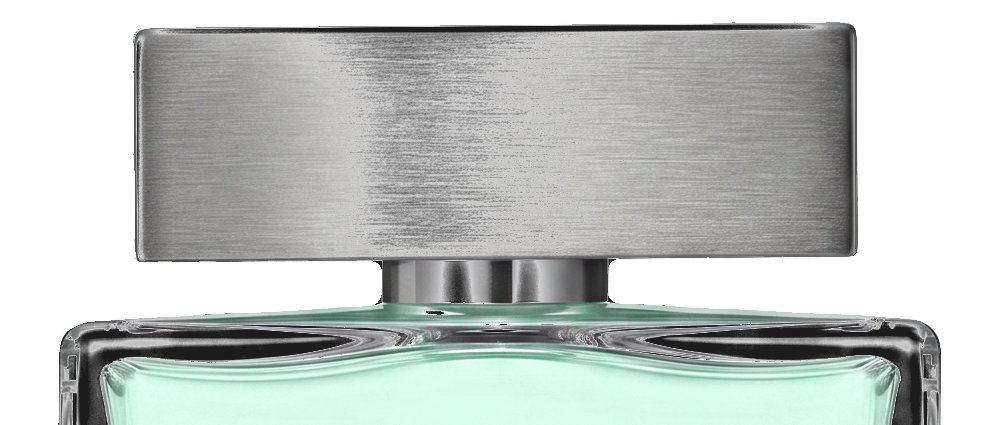
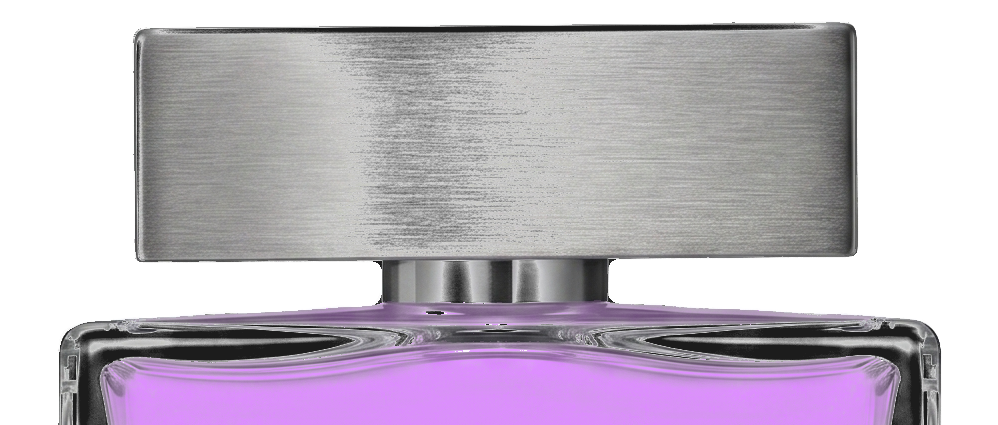
feat: halo keeps the retired house ultraviolet (01 §2.3 amended)
Halo carries #be29ff — the accent the whole system used until this release.
It is the one deliberate exception to the rule that a scent tint tracks its
bottle's liquid, and the name is the argument: a halo is the light AROUND an
object. It also suits the notes better than the green did, since iris, orris
and heliotrope are all violet materials.

The tint change alone was not shippable, and looking at it is what proved it.
Halo's liquid measures S 0.90 but L 0.92, and at that lightness no hue can
carry chroma — beside a vivid violet rim the body rendered as WHITE, reading
as a mismatched gel rather than as the bottle's own glow. Every other scent
sits within 16 degrees and ~2 chroma of its own liquid; halo was 178 chroma
points away.

Saturating it does nothing, because the saturation is already 0.90.
Deepening is the fix, so LIQUID_REHUE entries became { hue, deepen } and
halo is { hue: 282, deepen: 0.35 }: L 0.92 -> 0.77, chroma 36 -> 103. Picked
over 0.45 (chroma 123) by eye, because it keeps halo the lightest coloured
bottle of the five — what "the glow. iris in soft focus." asks for. Caps and
glass measure chroma 6 and 0 after the pass, untouched as designed.

Halo also GAINS a tinted text identity it did not have. Under the old palette
it was near-neutral pale violet, so 01 section 2.4 banned it from text; at
#be29ff it measures 4.47:1 and takes --scent-tint-text: #c33afe (4.84:1), the
same clamp volt used under the old house colour. That guardrail is rewritten:
[…]

Changed region(s): [[0.0932, 0.7035, 0.9008, 1.0]]

diff --git a/src/styles/tokens.css b/src/styles/tokens.css
@@ -42,10 +42,9 @@
      --scent-tint is a light source: liquid, rim glow, hover border,
      marker, ambient wash. It is not a text colour, and measuring it
      proves why — nocturne lands at 2.11:1, unreadable at any size, while
-     static and halo are so near-neutral that tinting a word does nothing
-     at all. Only volt and nocturne have a usable tinted text identity;
-     the rest resolve to white, per 01 §2.4's rule that near-neutral
-     tints are never text. */
+     static is so near-neutral that tinting a word does nothing at all.
+     Volt, nocturne and halo have a usable tinted text identity; static
+     and fever resolve to white, per 01 §2.4. */
   --scent-tint-text: var(--color--white);
 
   /* ---- Type scale (01 §3.2) ---- */
@@ -169,10 +168,10 @@
   --scent-tint-text: #7d75d3; /* 4.84:1 — the raw tint is 2.11:1 */
 }
 
-/* static, fever and halo inherit --scent-tint-text: white.
-   static and halo are near-neutral, so a tinted word is indistinguishable
-   from an untinted one (01 §2.4); fever's amber is reserved for scarcity
-   and error states (01 §1 rule 4) and must not leak into body copy. */
+/* static and fever inherit --scent-tint-text: white. static is
+   near-neutral, so a tinted word is indistinguishable from an untinted
+   one (01 §2.4); fever's amber is reserved for scarcity and error states
+   (01 §1 rule 4) and must not leak into body copy. */
 [data-scent="static"] {
   --scent-tint: #bad2c3;
 }
@@ -181,6 +180,13 @@
   --scent-tint: #ffb000;
 }
 
+/* halo keeps the retired house ultraviolet (01 §2.3, amended 2026-08-31).
+   It is the only tint that is not its bottle's liquid colour, and that is
+   the point: a halo is the light AROUND an object, so the pale violet
+   liquid sits inside a vivid UV glow rather than matching it. Same value
+   the house carried until the collection went green, and the same 4.47:1
+   — so display sizes only, exactly as volt was. */
 [data-scent="halo"] {
-  --scent-tint: #c5edd4;
+  --scent-tint: #be29ff;
+  --scent-tint-text: #c33afe; /* 4.84:1 — the raw tint is 4.47:1 */
 }

diff --git a/docs/design/01-design-system.md b/docs/design/01-design-system.md
@@ -100,7 +100,7 @@ Each scent detail page (and its card hover state) swaps ONE variable, nothing el
 [data-scent="nocturne"] { --scent-tint: #3a2fbf;          --scent-tint-text: #7d75d3; }
 [data-scent="static"]   { --scent-tint: #bad2c3; }
 [data-scent="fever"]    { --scent-tint: #ffb000; }
-[data-scent="halo"]     { --scent-tint: #c5edd4; }
+[data-scent="halo"]     { --scent-tint: #be29ff;          --scent-tint-text: #c33afe; }
 ```
 
 Components reference `--scent-tint` (falls back to `--color--phosphor`). This mirrors the reference build's per-item theme classes (research: `hero-nav-theme.is-1/is-2` pattern, §3/S2).
@@ -109,24 +109,45 @@ Components reference `--scent-tint` (falls back to `--color--phosphor`). This mi
 >
 > **`--scent-tint` is a light source, not a text colour.** Measured against
 > `--color--black`: volt 4.47:1, nocturne **2.11:1**, static 11.84:1,
-> fever 10.36:1, halo 14.86:1. Nocturne is unreadable at any size; static
-> and halo are so near-neutral that tinting a word changes nothing; fever's
-> amber collides with its reserved scarcity role (§1 rule 4). Four of five
-> fail as text — so the token stops being asked to do that job.
+> fever 10.36:1, halo 4.47:1. Nocturne is unreadable at any size; static
+> is so near-neutral that tinting a word changes nothing; fever's
+> amber collides with its reserved scarcity role (§1 rule 4). Most fail as
+> text — so the token stops being asked to do that job.
 >
 > **Permitted surfaces:** bottle liquid and rim glow · hover border ·
 > underline or marker beside a name · the section's ambient wash. That is
 > still ONE attribute swap and still satisfies `03 §3.1`.
 >
 > **`--scent-tint-text`** covers the rare genuinely-tinted word, clamped to
-> ≥4.5:1. Only volt and nocturne have a usable tinted text identity; static,
-> fever and halo resolve to `--color--white`, per §2.4.
+> ≥4.5:1. Volt, nocturne and halo have a usable tinted text identity; static
+> and fever resolve to `--color--white`, per §2.4.
+
+> **Amended 2026-08-31** (house colour, owner-approved). **Halo keeps the
+> retired house ultraviolet `#be29ff`** — the accent the whole system carried
+> until this release. It is the one deliberate exception to the rule that a
+> scent tint tracks its bottle's liquid, and the name is the argument: a halo
+> is the light *around* an object, and halo's notes are iris, orris and
+> heliotrope, all violet materials. The retired accent surviving as one
+> scent's signature is also the more honest record of where the house came
+> from than deleting it everywhere would be.
+>
+> Its master was re-hued to match at 282° and **deepened 0.35**. That second
+> step is not cosmetic. Halo's liquid measured S 0.90 but L 0.92, and at that
+> lightness no hue can carry chroma — shipped against the vivid tint it read
+> as a *white* body inside a violet rim, a mismatched gel rather than the
+> bottle's own glow. Deepening to L 0.77 (chroma 36 → 103) makes bottle and
+> glow agree while keeping halo the lightest coloured bottle of the five,
+> which is what `the glow. iris in soft focus.` asks for.
+>
+> Halo therefore **gains** a tinted text identity it did not have: at 4.47:1
+> the raw tint is display-only, so `--scent-tint-text: #c33afe` (4.84:1)
+> carries the word — the same clamp volt used under the old house colour.
 
 ### 2.4 Accessibility guardrails
 
 - Body text is always `--color--white` or `--color--black` — never the accent, never a tint.
-- Phosphor and amber on black: **display sizes (≥24px) only.** For small text, verify AA (4.5:1) with tooling before shipping; if it fails, use `--color--white` and reserve the accent for an underline/marker element.
-- `static` and `halo` tints are near-neutral: never use them for text — surfaces and liquid renders only.
+- Phosphor, amber and halo's ultraviolet on black: **display sizes (≥24px) only.** For small text, verify AA (4.5:1) with tooling before shipping; if it fails, use `--color--white` and reserve the accent for an underline/marker element.
+- The `static` tint is near-neutral: never use it for text — surfaces and liquid renders only.
 - Any boundary the user can operate — input underline, chip, stepper, secondary button — uses `--color--ink-4` (3:1, WCAG 1.4.11). `--color--ink-3` is for decorative rules only.
 - Nav links never take the scent tint. Under a `scent`-themed section the links stay `--color--white`; the scent shows in the wordmark and an underline marker.
 

diff --git a/docs/engineering/worklog.md b/docs/engineering/worklog.md
@@ -2,6 +2,14 @@
 
 > One entry per PR: date, PR title, spec sections implemented, deviations/flags raised, notable judgment calls. 3–5 lines each, newest first. Required by `00-implementation-guide.md §9`.
 
+## 2026-08-31 — feat: halo keeps the retired house ultraviolet (01 §2.3 amended)
+
+- Owner call: `halo` carries `#be29ff`, the accent the whole system used until this release. It is the one deliberate exception to the rule that a scent tint tracks its bottle's liquid, and the name is the argument — a halo is the light *around* an object. It also fits the notes better than the green did: iris, orris and heliotrope are all violet materials, and `docs/engineering/worklog.md`'s own copy sign-off flagged iris as load-bearing for this scent.
+- **The tint change alone was not shippable, and looking at it is what proved that.** Halo's liquid measures S 0.90 but L 0.92, and at that lightness no hue can carry chroma — beside a vivid violet rim the body rendered as *white*, a mismatched gel rather than the bottle's own glow. Every other scent sits within 16° and ~2 chroma of its own liquid; halo was 178 chroma points away.
+- Saturating it does nothing — the saturation is already 0.90. **Deepening is the fix**, so `LIQUID_REHUE` entries became `{ hue, deepen }` and halo is `{ hue: 282, deepen: 0.35 }`: L 0.92 → 0.77, chroma 36 → 103. Chosen over 0.45 (chroma 123) by eye because it keeps halo the lightest coloured bottle of the five, which is what `the glow. iris in soft focus.` asks for. Caps and glass measure chroma 6 and 0 after the pass — untouched, as designed.
+- Halo **gains** a tinted text identity it did not have. Under the old palette it was near-neutral pale violet, so `01 §2.4` banned it from text; at `#be29ff` it is 4.47:1, so it takes `--scent-tint-text: #c33afe` (4.84:1) — the same clamp volt used under the old house colour, now free. The §2.4 guardrail was rewritten accordingly: the near-neutral rule now names `static` only, and halo joins phosphor and amber in the display-sizes-only list.
+- `static` stays green — it has no equivalent argument, and its pale lilac was the one liquid that genuinely read as a leftover.
+
 ## 2026-08-31 — fix: 404's drifted btn-primary copy (01 §2.1, §6.2)
 
 - Lighthouse's colour-contrast audit came back clean on every route except `/404`, which failed at 4.47:1. Cause: `404.astro` re-declared the whole `.btn-primary` component locally, and because Astro's scoped styles outrank `base.css` the copy won — including its `color: var(--color--black)`, which never received the 2026-08-26 `--color--on-phosphor` amendment. Every other `btn-primary` on the site had been fixed; this one was invisible because it was a duplicate rather than a reference.

diff --git a/docs/design/00-design-brief.md b/docs/design/00-design-brief.md
@@ -51,7 +51,7 @@ Five scents. Each has a scent-scoped accent tint (used ONLY on its detail page a
 | 02 | **nocturne** | oud, black plum, amber | the night | `#3A2FBF` |
 | 03 | **static** | aldehydes, white musk, iris | the white noise | `#BAD2C3` |
 | 04 | **fever** | saffron, chili-rose, benzoin | the heat | `#FFB000` |
-| 05 | **halo** | iris, cashmeran, pale musk | the glow | `#C5EDD4` |
+| 05 | **halo** | iris, cashmeran, pale musk | the glow | `#BE29FF` (the retired house UV) |
 
 **Bottle design (settled 2026-08-21):** a **heavy squat rectangular flacon** — roughly 1:1.2 width-to-height, thick pressed-glass walls with a visible glass floor, sharp square shoulders, no neck taper, and a solid machined cap flush with the body width, so the silhouette is one unbroken block. Label: a small silk-screened rectangle, lowercase, batch number in mono.
 

diff --git a/docs/engineering/design-review-2026-08-21.md b/docs/engineering/design-review-2026-08-21.md
@@ -683,7 +683,8 @@ Journal needs three articles and a feature card. Contact is the best-composed pa
 > from ultraviolet to signal green (`01 §2.1`, amended 2026-08-31). **Before
 > reusing any prompt below, substitute the hue**: "violet" → "green" and the
 > per-scent liquid list → volt `#008d57` · nocturne `#3a2fbf` · static
-> `#bad2c3` · fever `#ffb000` · halo `#c5edd4`. The measured contrast table in
+> `#bad2c3` · fever `#ffb000` · halo `#be29ff` (the retired house UV, kept as
+> that scent's signature). The measured contrast table in
 > §6 is likewise superseded by `01 §2.1`. Volt's master was re-shot green and
 > delivered; nocturne and fever are unaffected; static and halo are re-hued
 > programmatically by `pnpm stills` (`LIQUID_REHUE` in `scripts/prepare-stills.mjs`).
